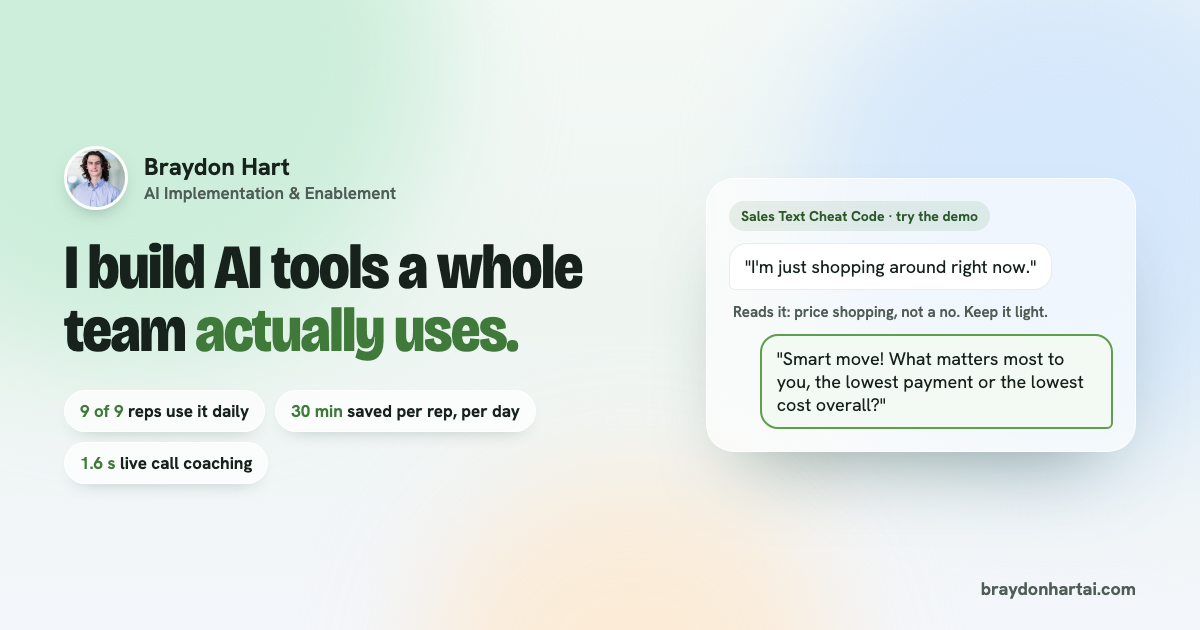
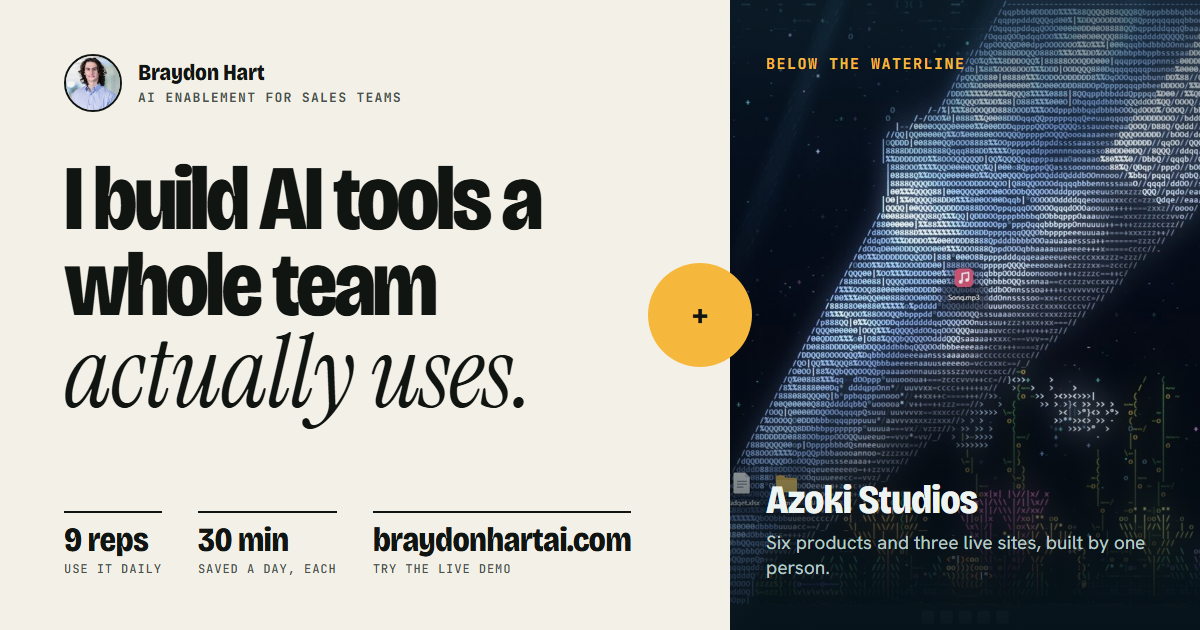
New share image to match the rebuilt portfolio

diff --git a/made/index.html b/made/index.html
@@ -6,7 +6,7 @@
 <title>Made | Braydon Hart</title>
 <meta name="description" content="Things Braydon Hart has made: Stitch Bench, an AI design team for embroidery files; Azoki Market, an AI run blanket store; and physical products he designed, modeled in Blender and made by hand.">
 <meta property="og:title" content="Made | Braydon Hart">
-<meta property="og:image" content="https://braydonhartai.com/og.png?v=2">
+<meta property="og:image" content="https://braydonhartai.com/og.png?v=3">
 <link rel="icon" href="../favicon.svg" type="image/svg+xml">
 <link rel="preconnect" href="https://fonts.googleapis.com">
 <link rel="preconnect" href="https://fonts.gstatic.com" crossorigin>

diff --git a/index.html b/index.html
@@ -6,7 +6,7 @@
 <title>Braydon Hart | AI Enablement for Sales Teams</title>
 <meta property="og:title" content="Braydon Hart | AI Enablement for Sales Teams">
 <meta property="og:description" content="I build AI tools a whole team actually uses. Try the AI sales coach all 9 reps on my team use every day, then see Azoki Studios: six products and three live sites.">
-<meta property="og:image" content="https://braydonhartai.com/og.png?v=2">
+<meta property="og:image" content="https://braydonhartai.com/og.png?v=3">
 <meta property="og:url" content="https://braydonhartai.com/">
 <meta property="og:type" content="website">
 <meta name="twitter:card" content="summary_large_image">
